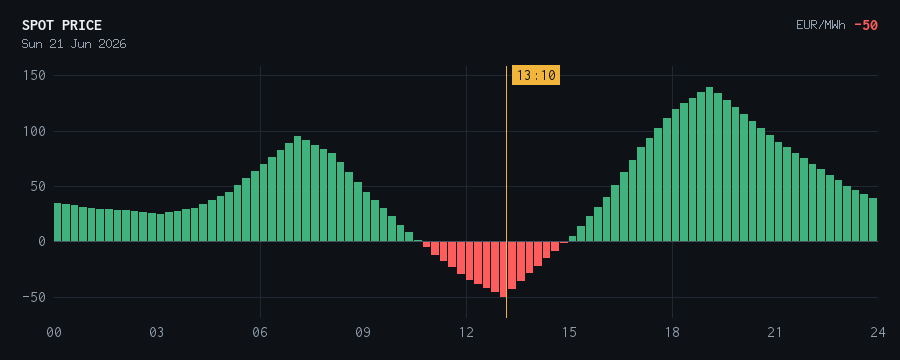
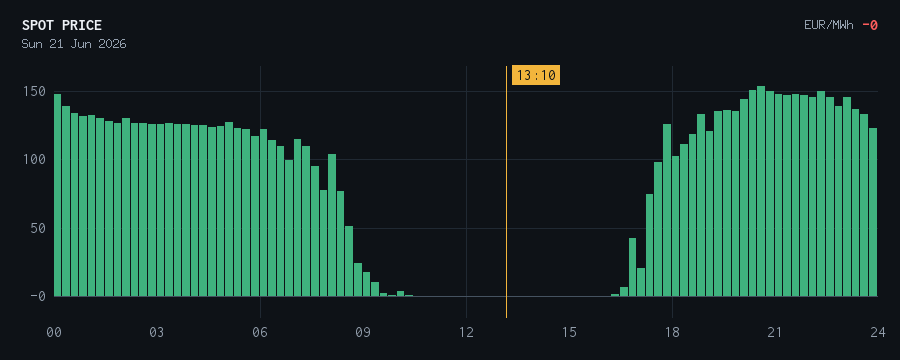
Use real OTE data (21 Jun 2026) for the example chart
Render the README sample chart from the tool's own live OTE fetch instead of a
synthetic curve, and align the example message text with the real data
(midday dip to ~0, export-stop window 10:45-15:45).

diff --git a/README.md b/README.md
@@ -24,14 +24,15 @@ config field — see [Configure](#configure). The chart image is always English/
 
 When the spot price dips to or below the threshold, grid-guard stops export and
 sends a Telegram message with a chart of the day's prices (green positive / red
-negative bars, with a "now" marker):
+negative bars, with a "now" marker). Real OTE data for 21 Jun 2026 — a typical
+solar-glut day where midday prices collapse to ~0:
 
 ![Example day-price chart](docs/sample-chart.png)
 
 > 🛑 **Stopping grid export**
-> Spot price is dropping to **-50 EUR/MWh** (≤ 0) — we don't sell at a loss.
-> ⏳ Negative-price window: **10:45–15:00**
-> ▶️ Export resumes at **15:00**
+> Spot price is dropping to **-0.01 EUR/MWh** (≤ 0) — we don't sell at a loss.
+> ⏳ Negative-price window: **10:45–15:45**
+> ▶️ Export resumes at **15:45**
 > 🔋 Battery **96 %** · grid feed-in **0 W**
 > 🕒 Jun 21, 2026 13:10
 